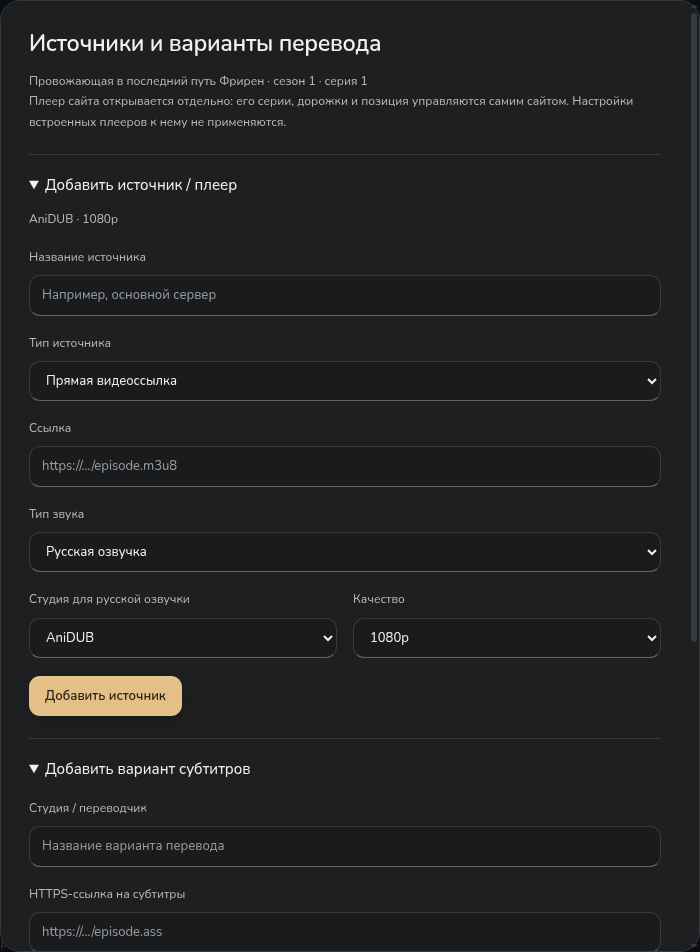
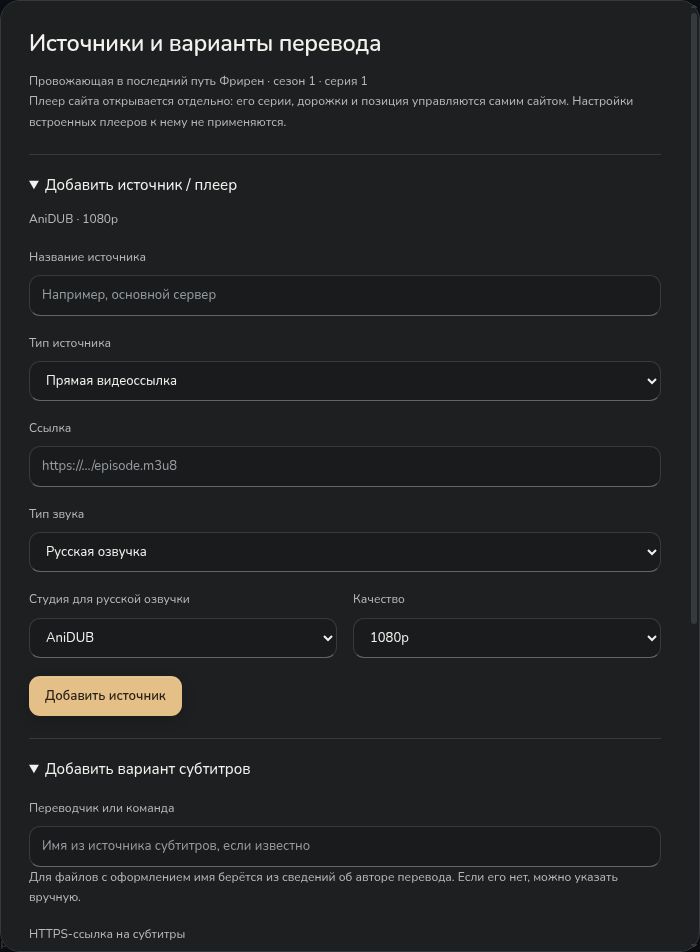
Use explicit translator credits and remove fictitious studio names from subtitle previews

diff --git a/e2e/app.spec.js b/e2e/app.spec.js
@@ -611,7 +611,8 @@ test('ASS/SSA renderer runs real WASM and local studio files persist without res
   await page.locator('video').evaluate(v => { v.pause(); v.currentTime = 1; });
   await playerSettings(page); await page.locator('#edit-media').click();
   const content = '[Script Info]\nScriptType: v4.00+\nPlayResX: 640\nPlayResY: 360\n\n[V4+ Styles]\nFormat: Name, Fontname, Fontsize, PrimaryColour, SecondaryColour, OutlineColour, BackColour, Bold, Italic, Underline, StrikeOut, ScaleX, ScaleY, Spacing, Angle, BorderStyle, Outline, Shadow, Alignment, MarginL, MarginR, MarginV, Encoding\nStyle: Default,Liberation Sans,22,&H00FFFFFF,&H00FFFFFF,&H00000000,&H80000000,0,0,0,0,100,100,0,0,1,2,0,2,20,20,20,1\n\n[Events]\nFormat: Layer, Start, End, Style, Name, MarginL, MarginR, MarginV, Effect, Text\nDialogue: 0,0:00:00.00,0:00:08.00,Default,,0,0,0,,У каждого переводчика — свои слова.';
-  await page.locator('#subtitle-file').setInputFiles({ name: 'Студия В.ass', mimeType: 'text/plain', buffer: Buffer.from(content) });
+  await page.locator('#add-subtitle-form [name=label]').fill('Демонстрационные субтитры');
+  await page.locator('#subtitle-file').setInputFiles({ name: 'Демонстрационные субтитры.ass', mimeType: 'text/plain', buffer: Buffer.from(content) });
   await page.getByRole('button', { name: 'Добавить перевод', exact: true }).click();
   await page.locator('#close-media-dialog').click();
   await expect(page.locator('#subtitle-status')).toContainText('оформление автора', { timeout: 15000 });
@@ -1043,4 +1044,22 @@ test('roundness storage failure keeps the live interface usable and reports the 
   await page.locator('#custom-radius').fill('32'); await expect(page.locator('#settings-save-status')).toContainText('Не удалось сохранить');
   await expect(page.locator('#custom-radius-value')).toHaveText('Округлая');
   await page.locator('#settings-advanced-tab').click(); await expect(page.locator('#advanced-settings')).toBeVisible(); expect(errors).toEqual([]);
+});
+
+test('local subtitle import uses the credited translator instead of the filename and admits unknown authors', async ({page})=>{
+  const title=anime([source('ru')]); await seed(page,[title]); await serveVideo(page); await open(page);
+  await page.getByRole('button',{name:'Смотреть: Проверка плеера',exact:true}).click();
+  await expect(page.locator('#playback-status')).toContainText('воспроизведение');
+  await playerSettings(page); await page.locator('#edit-media').click();
+  const ass=readFileSync(new URL('../test/fixtures/translator.ass',import.meta.url),'utf8').replace('[Script Info]','[Script Info]\nOriginal Translation: Проверяемое имя переводчика');
+  await page.locator('#subtitle-file').setInputFiles({name:'Студия B.ass',mimeType:'text/plain',buffer:Buffer.from(ass)});
+  await expect(page.locator('#add-subtitle-form [name=label]')).toHaveValue('');
+  await page.getByRole('button',{name:'Добавить перевод',exact:true}).click();
+  await expect(page.locator('#existing-subtitles')).toContainText('Проверяемое имя переводчика');
+  await page.locator('#subtitle-file').setInputFiles({name:'[GuessMe] 01.srt',mimeType:'text/plain',buffer:Buffer.from('1\n00:00:00,000 --> 00:00:08,000\nТекст')});
+  await page.getByRole('button',{name:'Добавить перевод',exact:true}).click();
+  await expect(page.locator('#existing-subtitles')).toContainText('Переводчик не указан');
+  await page.locator('#close-media-dialog').click();
+  await expect(page.locator('#subtitle-selector')).toContainText('Проверяемое имя переводчика');
+  await expect(page.locator('#subtitle-selector')).not.toContainText('Студия B');
 });

diff --git a/src/viewing-controls.js b/src/viewing-controls.js
@@ -2,6 +2,7 @@ import { rankSources, validateLibrary } from './core.js';
 import { webPlayerURL } from './media-schema.js';
 import { SubtitleController } from './subtitles.js';
 import { languageName, subtitleKind } from './media-labels.js';
+import { subtitleCredit } from './subtitle-credit.js';
 
 export function viewingControls({ $, node, preferences, persist, savePreferences, toast, active, video, hls, currentSource, restart }) {
   let controller; let detach = () => {}; let currentTrack;
@@ -119,13 +120,14 @@ export function viewingControls({ $, node, preferences, persist, savePreferences
       const fields = new FormData(form); const file = $('#subtitle-file').files[0];
       if (file && file.size > 2 * 1024 * 1024) throw new Error('Файл субтитров — до 2 МиБ.');
       if (file && fields.get('url')) throw new Error('Выбери файл или ссылку, одно из двух.');
-      const track = { id: crypto.randomUUID(), label: fields.get('label'), language: fields.get('language'), format: fields.get('format'), ...(file ? { content: new TextDecoder('utf-8', { fatal: true }).decode(await file.arrayBuffer()) } : { url: fields.get('url') }), ...(fields.get('sourceId') ? { sourceId: fields.get('sourceId') } : {}) };
+      const track = { id: crypto.randomUUID(), label: fields.get('label').trim(), language: fields.get('language'), format: fields.get('format'), ...(file ? { content: new TextDecoder('utf-8', { fatal: true }).decode(await file.arrayBuffer()) } : { url: fields.get('url') }), ...(fields.get('sourceId') ? { sourceId: fields.get('sourceId') } : {}) };
+      track.label = subtitleCredit(track);
       if (active() !== value) throw new Error('Серия изменилась. Открой её настройки заново.');
       updateEpisode({ subtitles: [...(value.episode.subtitles || []), track] }); preferences.watching.subtitleVariant = track.label; preferences.watching.subtitleFormat = 'all'; $('#subtitle-format').value = 'all'; savePreferences(); renderEntries(); subtitles();
       $('#subtitle-form-error').textContent = ''; form.reset(); toast('Вариант субтитров добавлен и сохранён.');
     } catch (error) { $('#subtitle-form-error').textContent = error.message; }
     finally { submit.disabled = false; }
   };
-  $('#subtitle-file').onchange = () => { const file = $('#subtitle-file').files[0]; if (!file) return; const ext = file.name.split('.').pop().toLowerCase(); if (['vtt', 'srt', 'ass', 'ssa'].includes(ext)) $('#add-subtitle-form [name="format"]').value = ext; if (!$('#add-subtitle-form [name="label"]').value) $('#add-subtitle-form [name="label"]').value = file.name.replace(/\.[^.]+$/, '').slice(0, 120); };
+  $('#subtitle-file').onchange = () => { const file = $('#subtitle-file').files[0]; if (!file) return; const ext = file.name.split('.').pop().toLowerCase(); if (['vtt', 'srt', 'ass', 'ssa'].includes(ext)) $('#add-subtitle-form [name="format"]').value = ext; };
   return { sources, subtitles, attach, stop: () => { detach(); controller?.dispose(); controller = null; currentTrack = null; }, restyle: () => { if (currentTrack) selectTrack(); } };
 }

diff --git a/test/subtitle-credit.test.js b/test/subtitle-credit.test.js
@@ -1,0 +1,26 @@
+import test from 'node:test';
+import assert from 'node:assert/strict';
+import { assTranslator, subtitleCredit } from '../src/subtitle-credit.js';
+import { validateLibrary } from '../src/core.js';
+
+test('only explicit translation credits are read from the ASS info section', () => {
+  assert.equal(assTranslator('\uFEFF[Script Info]\r\n\r\nOriginal Translation: Команда переводчиков\r\n[Events]\r\n'), 'Команда переводчиков');
+  assert.equal(assTranslator('[Script Info]\nOriginalTranslation: Alex & Friends\n[Events]'), 'Alex & Friends');
+  for (const content of ['[Script Info]\nTitle: Anime\nScript Updated By: Editor\n[Events]\nOriginal Translation: Not a credit', '[Script Info]\nOriginal Translation: unknown', '[Script Info]\nOriginal Translation: '+ 'x'.repeat(121)]) assert.equal(assTranslator(content),'');
+});
+test('provided translator/studio names win over generic track titles without guessing authors from filenames', () => {
+  assert.equal(subtitleCredit({translator:' Реальный переводчик ',studio:'Команда',label:'Russian'}),'Реальный переводчик');
+  assert.equal(subtitleCredit({studio:'Название команды',label:'Russian'}),'Название команды');
+  assert.equal(subtitleCredit({label:'Личная подпись',format:'ass',content:'[Script Info]\nOriginal Translation: Другой автор'}),'Личная подпись');
+  assert.equal(subtitleCredit({format:'srt',filename:'[SomeStudio] 01.srt'}),'Переводчик не указан');
+});
+test('imported credits and unknown authors persist as safe human labels', () => {
+  const track={id:'subs',language:'ru',format:'ass',content:'[Script Info]\nOriginal Translation: Имя переводчика\n[Events]'};
+  const title={id:'anime',title:'Аниме',episodes:[{id:'1',number:1,sources:[{id:'video',url:'https://media.test/1.mp4',voice:'Оригинал',audioType:'original',language:'ja',quality:1080}],subtitles:[track]}]};
+  const check = item => validateLibrary([{...title,episodes:[{...title.episodes[0],subtitles:[item]}]}])[0].episodes[0].subtitles[0];
+  assert.equal(check(track).label,'Имя переводчика');
+  assert.equal(check({...track,translator:'Другая команда'}).label,'Другая команда');
+  assert.equal(check({...track,content:'[Script Info]\n[Events]'}).label,'Переводчик не указан');
+  assert.throws(()=>check({...track,translator:'x'.repeat(121)}));
+  assert.throws(()=>check({...track,studio:'Bad\u0000Name'}));
+});

diff --git a/index.html b/index.html
@@ -196,7 +196,7 @@
         <p id="source-form-error" role="alert"></p><button type="submit" class="primary">Добавить источник</button>
       </form></details>
       <details open><summary>Добавить вариант субтитров</summary><div id="existing-subtitles" class="entry-list"></div><form id="add-subtitle-form">
-        <label>Студия / переводчик<input name="label" required maxlength="120" placeholder="Название варианта перевода"></label><label>HTTPS-ссылка на субтитры<input name="url" type="url" placeholder="https://…/episode.ass"></label>
+        <label>Переводчик или команда<input name="label" maxlength="120" placeholder="Имя из источника субтитров, если известно"></label><p class="muted">Для файлов с оформлением имя берётся из сведений об авторе перевода. Если его нет, можно указать вручную.</p><label>HTTPS-ссылка на субтитры<input name="url" type="url" placeholder="https://…/episode.ass"></label>
         <label>Или файл с устройства<input id="subtitle-file" type="file" accept=".vtt,.srt,.ass,.ssa"></label>
         <div class="form-row"><label>Язык<select name="language"><option value="ru">Русский</option><option value="en">Английский</option><option value="ja">Японский</option></select></label><label>Формат<select name="format"><option value="vtt">Для онлайн-видео (.vtt)</option><option value="srt">Текстовые (.srt)</option><option value="ass">С оформлением (.ass)</option><option value="ssa">С оформлением (.ssa)</option></select></label></div>
         <label>Для источника<select id="subtitle-source" name="sourceId"></select></label><p class="muted">Файлы сохраняются вместе с библиотекой. Для ссылок сервер должен разрешать загрузку субтитров; вшитый в видео текст заменить нельзя.</p>

diff --git a/src/media-schema.js b/src/media-schema.js
@@ -1,3 +1,4 @@
+import { subtitleCredit } from './subtitle-credit.js';
 const MAX_TEXT = 2 * 1024 * 1024;
 export const PLAYER_HOSTS = Object.freeze(['old.yummyani.me', 'animejoy.ru', 'brogiro.cfd', 'g0e-1ka1v5q.troutcdn.site']);
 export function webPlayerURL(value) {
@@ -25,10 +26,10 @@ export function subtitleEntries(value, sourceIds, safeURL) {
   return value.map(track => {
     if (!track || typeof track.id !== 'string' || !track.id || ids.has(track.id)) throw new Error('У субтитров должны быть уникальные id.');
     ids.add(track.id);
-    if (typeof track.label !== 'string' || !track.label.trim() || track.label.length > 120) throw new Error('Укажи название перевода субтитров до 120 символов.');
+    for (const key of ['translator', 'studio', 'label']) if (track[key] !== undefined && (typeof track[key] !== 'string' || track[key].length > 120 || /[\u0000-\u001f\u007f]/.test(track[key]))) throw new Error('Имя переводчика или название команды — до 120 символов.');
     if (!/^[a-z]{2,3}(?:-[a-z0-9]{2,8})?$/i.test(track.language || '')) throw new Error('Укажи язык субтитров: например ru, en или ja.');
     if (!['vtt', 'srt', 'ass', 'ssa'].includes(track.format)) throw new Error('Поддерживаются субтитры VTT, SRT, ASS и SSA.');
-    const entry = { id: track.id, label: track.label.trim(), language: languageCode(track.language), format: track.format };
+    const entry = { id: track.id, label: subtitleCredit(track), language: languageCode(track.language), format: track.format };
     if (typeof track.content === 'string' && !track.url && track.content.length <= MAX_TEXT && track.content.trim()) entry.content = track.content;
     else if (typeof track.url === 'string' && !track.content && track.url.length <= 2048) entry.url = safeURL(track.url);
     else throw new Error('Для субтитров нужна одна HTTPS-ссылка или текст файла до 2 МиБ.');

diff --git a/src/subtitle-credit.js b/src/subtitle-credit.js
@@ -1,0 +1,20 @@
+// Only explicit credits count as authorship. A filename, anime title, editor or
+// language code cannot establish who translated a subtitle track.
+export function assTranslator(content) {
+  if (typeof content !== 'string') return '';
+  let inInfo = false;
+  for (const line of content.slice(0, 16384).replace(/^\uFEFF/, '').split(/\r?\n/)) {
+    if (/^\s*\[/.test(line)) { inInfo = /^\s*\[Script Info\]\s*$/i.test(line); continue; }
+    if (!inInfo) continue;
+    const value = line.match(/^\s*Original[ _]?Translation\s*:\s*(.+)$/i)?.[1]?.trim();
+    if (value && value.length <= 120 && !/^(unknown|n\/?a|none|не указан|\?)$/i.test(value) && !/[\u0000-\u001f\u007f]/.test(value)) return value;
+  }
+  return '';
+}
+export function subtitleCredit(track) {
+  for (const key of ['translator', 'studio', 'label']) {
+    const value = track?.[key];
+    if (typeof value === 'string' && value.trim()) return value.trim();
+  }
+  return ['ass', 'ssa'].includes(track?.format) && assTranslator(track.content) || 'Переводчик не указан';
+}

diff --git a/docs/viewing-0.6.md b/docs/viewing-0.6.md
@@ -63,3 +63,10 @@ AniDB HTTP XML содержит персонажей/сэйю релиза, **н
 Пример списка: [playlist-original.example.json](playlist-original.example.json). В нём `.invalid` — намеренно неработающие адреса, их нужно заменить. Японский оригинал помечается одновременно `audioType: "original"` и `language: "ja"`; это предотвращает случайный выбор дубляжа. У переводов отдельные `id`, `label`, `language`, `format` и `url` либо `content`. `sourceId` необязателен.
 
 Проверены unit-тестами фильтры/схемы/таймкоды/защита URL и точное качество; браузерными тестами — разные тексты переводов, локальный ASS с реальным WASM и видимыми пикселями, смена источников/плеера, пауза/позиция/звук, Video.js HLS, сезонные ID и неизвестность состава серии; реальным Electron `file://` — Video.js, ASS canvas, API IPC/кэш/XML и изоляция окон. Работа актуальной сборки и Discord на пользовательском Windows ещё требует проверки.
+
+
+## Имя переводчика (0.7.5)
+
+В списке показывается указанное имя переводчика или команды, а не условная «Студия B». При импорте списка поддерживаются поля `translator`, `studio` и прежнее `label` (приоритет в этом порядке, строки до 120 символов). Для локальных файлов с оформлением читается поле `Original Translation` / `OriginalTranslation` из `[Script Info]`, если имя не введено вручную. Заголовок аниме, редактор, имя файла и название студии озвучки не считаются автором перевода.
+
+Если автор неизвестен, показывается «Переводчик не указан»; имя можно ввести в форме добавления перевода. Авторство не проверяется внешним сервисом — используется явно указанная информация. Скриншот плеера использует **«Демонстрационные субтитры»** для собственного тестового текста; это не перевод реальной студии. Автоматическое получение вариантов и их авторов с Yummyani/AnimeJoy пока не подключено.

diff --git a/README.md b/README.md
@@ -2,7 +2,7 @@
 
 <img src="public/yoru-icon.png" width="80" height="80" alt="Иконка Yoru — луна и воспроизведение">
 
-**Windows 10/11 · x64 · версия 0.7.4 · предварительная сборка**
+**Windows 10/11 · x64 · версия 0.7.5 · предварительная сборка**
 
 Библиотека, продолжение просмотра, выбранная озвучка и свои заметки о персонажах. Пять готовых тем и собственная палитра. Приложение работает с прямыми видеоссылками; страницы плееров сайтов открываются отдельно.
 
@@ -17,6 +17,10 @@
 **Пока это предварительный плеер для прямых ссылок, а не готовый каталог, где любое аниме запускается автоматически.** Серии и озвучки сайтов ещё не извлекаются автоматически. Проверка Yummyani/AnimeJoy дала HTTP 200 страниц, TroutCDN — 403, Brogiro — 404; живой HLS AniLibria блокируется сетью среды. Эти ответы не подтверждают воспроизведение всех релизов.
 
 В 0.7.2 убраны подписи источника фото на карточках. Расширены проверки обоих плееров на MP4/WebM/HLS и декодирование звука. Исправлены запуск после смены движка во время загрузки и очистка оформленных субтитров при закрытии Video.js. [Полный отчёт перед выпуском](docs/release-audit-0.7.2.md).
+
+## Названия переводов 0.7.5
+
+«Студия В» на прежнем снимке была подписью собственного тестового файла, а не реальной команды. Пример теперь явно подписан **«Демонстрационные субтитры»**. В настоящих дорожках сохраняется имя из источника (`translator` / `studio` / `label`); при локальном импорте оформленных субтитров также читается автор перевода в метаданных. Имя файла больше не подставляется вместо автора. Если имени нет — **«Переводчик не указан»**, без выдумывания студии.
 
 ## Понятные настройки 0.7.4
 

diff --git a/docs/images/README.md b/docs/images/README.md
@@ -1,4 +1,4 @@
-# Yoru 0.7.4 — новые скриншоты
+# Yoru — скриншоты интерфейса
 
 Все **36 PNG** пересняты из реализованного интерфейса 0.7.4. Полоса прокрутки не скрывается тестовым браузером; показаны обычные окна, а не сжатая высокая страница. Предыдущие снимки заменены. Библиотека подготовлена для проверок; после установки приложение пустое. Видео — собственный короткий тестовый фрагмент, не поток аниме.
 
@@ -31,6 +31,8 @@
 | Ручные параметры | [Подробная настройка](settings-manual.png) |
 
 ![Собственная палитра](settings-custom.png)
+
+В версии 0.7.5 обновлены четыре снимка плеера и форм: тестовый перевод явно называется «Демонстрационные субтитры». Остальные снимки показывают неизменившиеся экраны 0.7.4.
 
 ## Просмотр и диалоги
 
